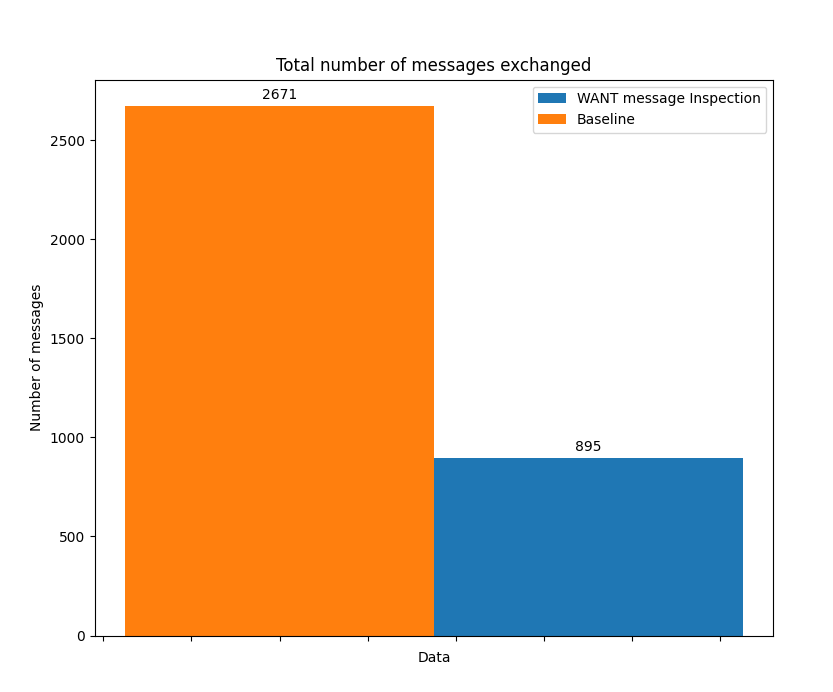
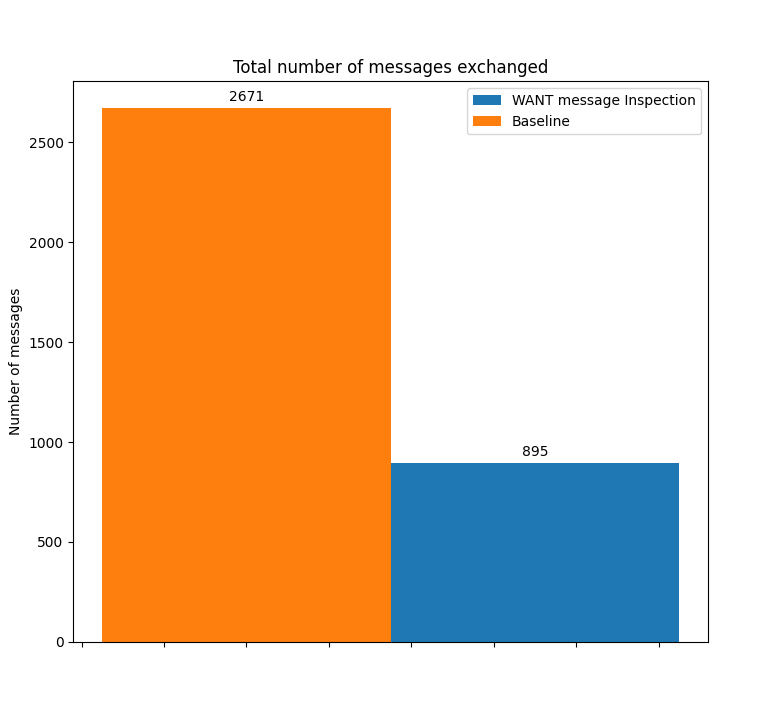
Updated figures

Changed region(s): [[0.0, 0.1517, 0.9345, 0.9711], [0.3014, 0.0607, 0.9345, 0.1821], [0.6632, 0.6373, 0.7235, 0.6676]]

diff --git a/content/posts/202011-want-message-inspect/index.md b/content/posts/202011-want-message-inspect/index.md
@@ -114,10 +114,7 @@ The use of message inspection has another interesting result apart from the time
 
 Thus, the average number of WANT messages exchanged is reduced by 33%, while the number of WANT-HAVEs is reduced by 75%. All of this for a slight increase in the number of WANT-BLOCK exchanged of 7%.
 
-<center>{{< figure src="average_rfc.png" alt="Average number of WANT messages seen by peer in prototype" >}}</center>
-
-
-<center>{{< figure src="average_baseline.png" alt="Average number of WANT messages seen by peer in baseline" >}}</center>
+<center>{{< figure src="messages.png" alt="Average number of WANT messages seen by peer" >}}</center>
 
 <center>{{< figure src="total_messages.png" alt="Total number of messages exchanged in the experiments" >}}</center>
 
@@ -125,10 +122,7 @@ This improvement doesn't come without a small trade-off. The fact that we are se
 
 While in the vanilla Bitswap implementation a single WANT-BLOCK is sent to a peer that has answered that has the block, in our prototype we send three different WANT-BLOCK, and as we select the recipient peers from the peer-block registry, all of them will potentially have the block. The number of WANT-BLOCK messages to send to peers in the peer-block registry can be configured, so it could even be dynamically adapted to balance the trade-off between savings in WANT messages and duplicate if we want to optimize for bandwidth use.
 
-<center>{{< figure src="data_rfc.png" alt="Data exchanged by peer in RFC" >}}</center>
-  <p></p>
-
-<center>{{< figure src="data_baseline.png" alt="Data exchanged by peer in baseline" >}}</center>
+<center>{{< figure src="data.png" alt="Data exchanged by peer" >}}</center>
   <p></p>
 
 
